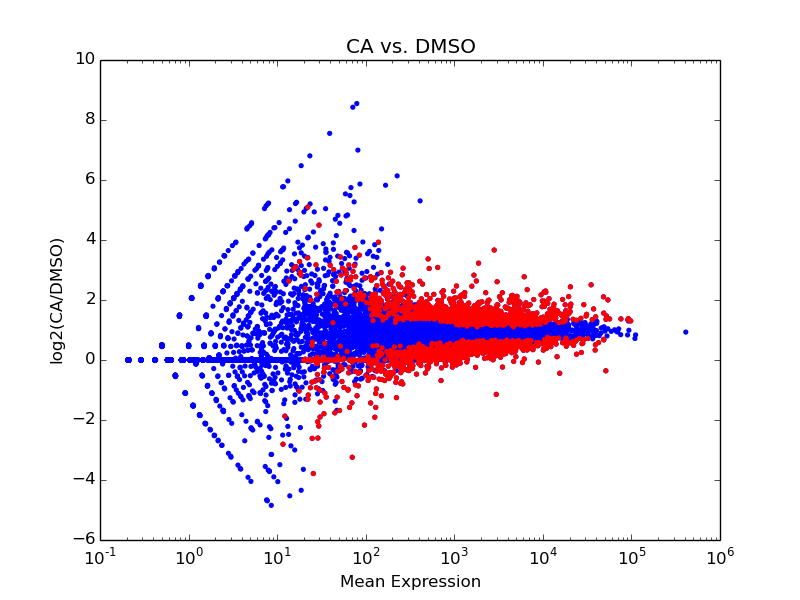
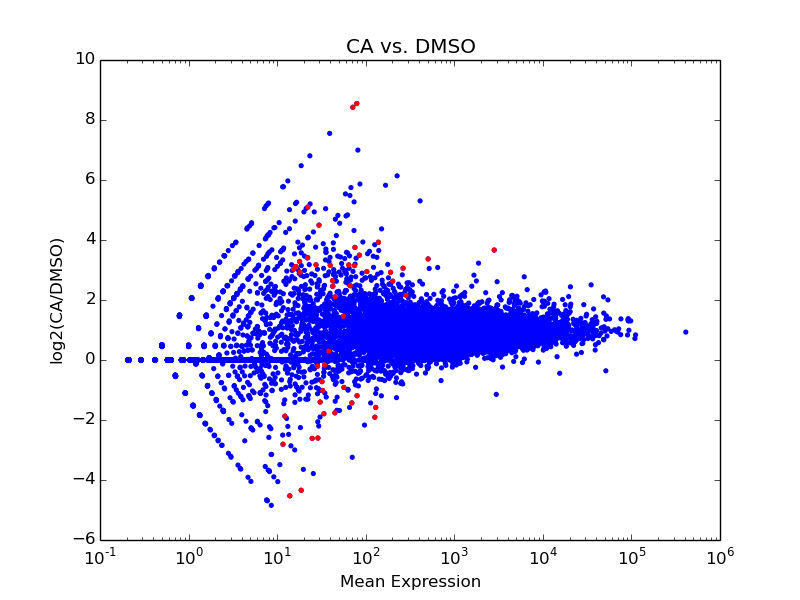
updates

Changed region(s): [[0.375, 0.42, 0.8125, 0.69], [0.5312, 0.42, 0.5625, 0.45], [0.375, 0.69, 0.4062, 0.72]]

diff --git a/src/deseq.py b/src/deseq.py
@@ -65,7 +65,7 @@ def run(counts,conditions,deseqdir):
     low = 10
     high = max(x)
     windows = int(np.log10(high))
-    p = 0.01
+    p = 0.001
     for i in range(windows):
         j = (10**i)+low
         k = 10**(i+1)+low if 10**(i+1)+low < high else high
@@ -88,8 +88,8 @@ def run(counts,conditions,deseqdir):
             meanrep = np.mean(replist)
             srep = np.std(replist)/(len(replist))**(1/2)
             Z = (meany-meanrep)/((sy)**2 + (srep)**2)**(1/2)
-            pval = min(stats.norm.cdf(Z),1-stats.norm.cdf(Z))
-            # pval = stats.ks_2samp(replist,windowy)[1]
+            # pval = min(stats.norm.cdf(Z),1-stats.norm.cdf(Z))
+            pval = stats.ks_2samp(replist,windowy)[1]
             d[key].append(pval)
             if pval < p:
                 sigx.append(d[key][-3])
